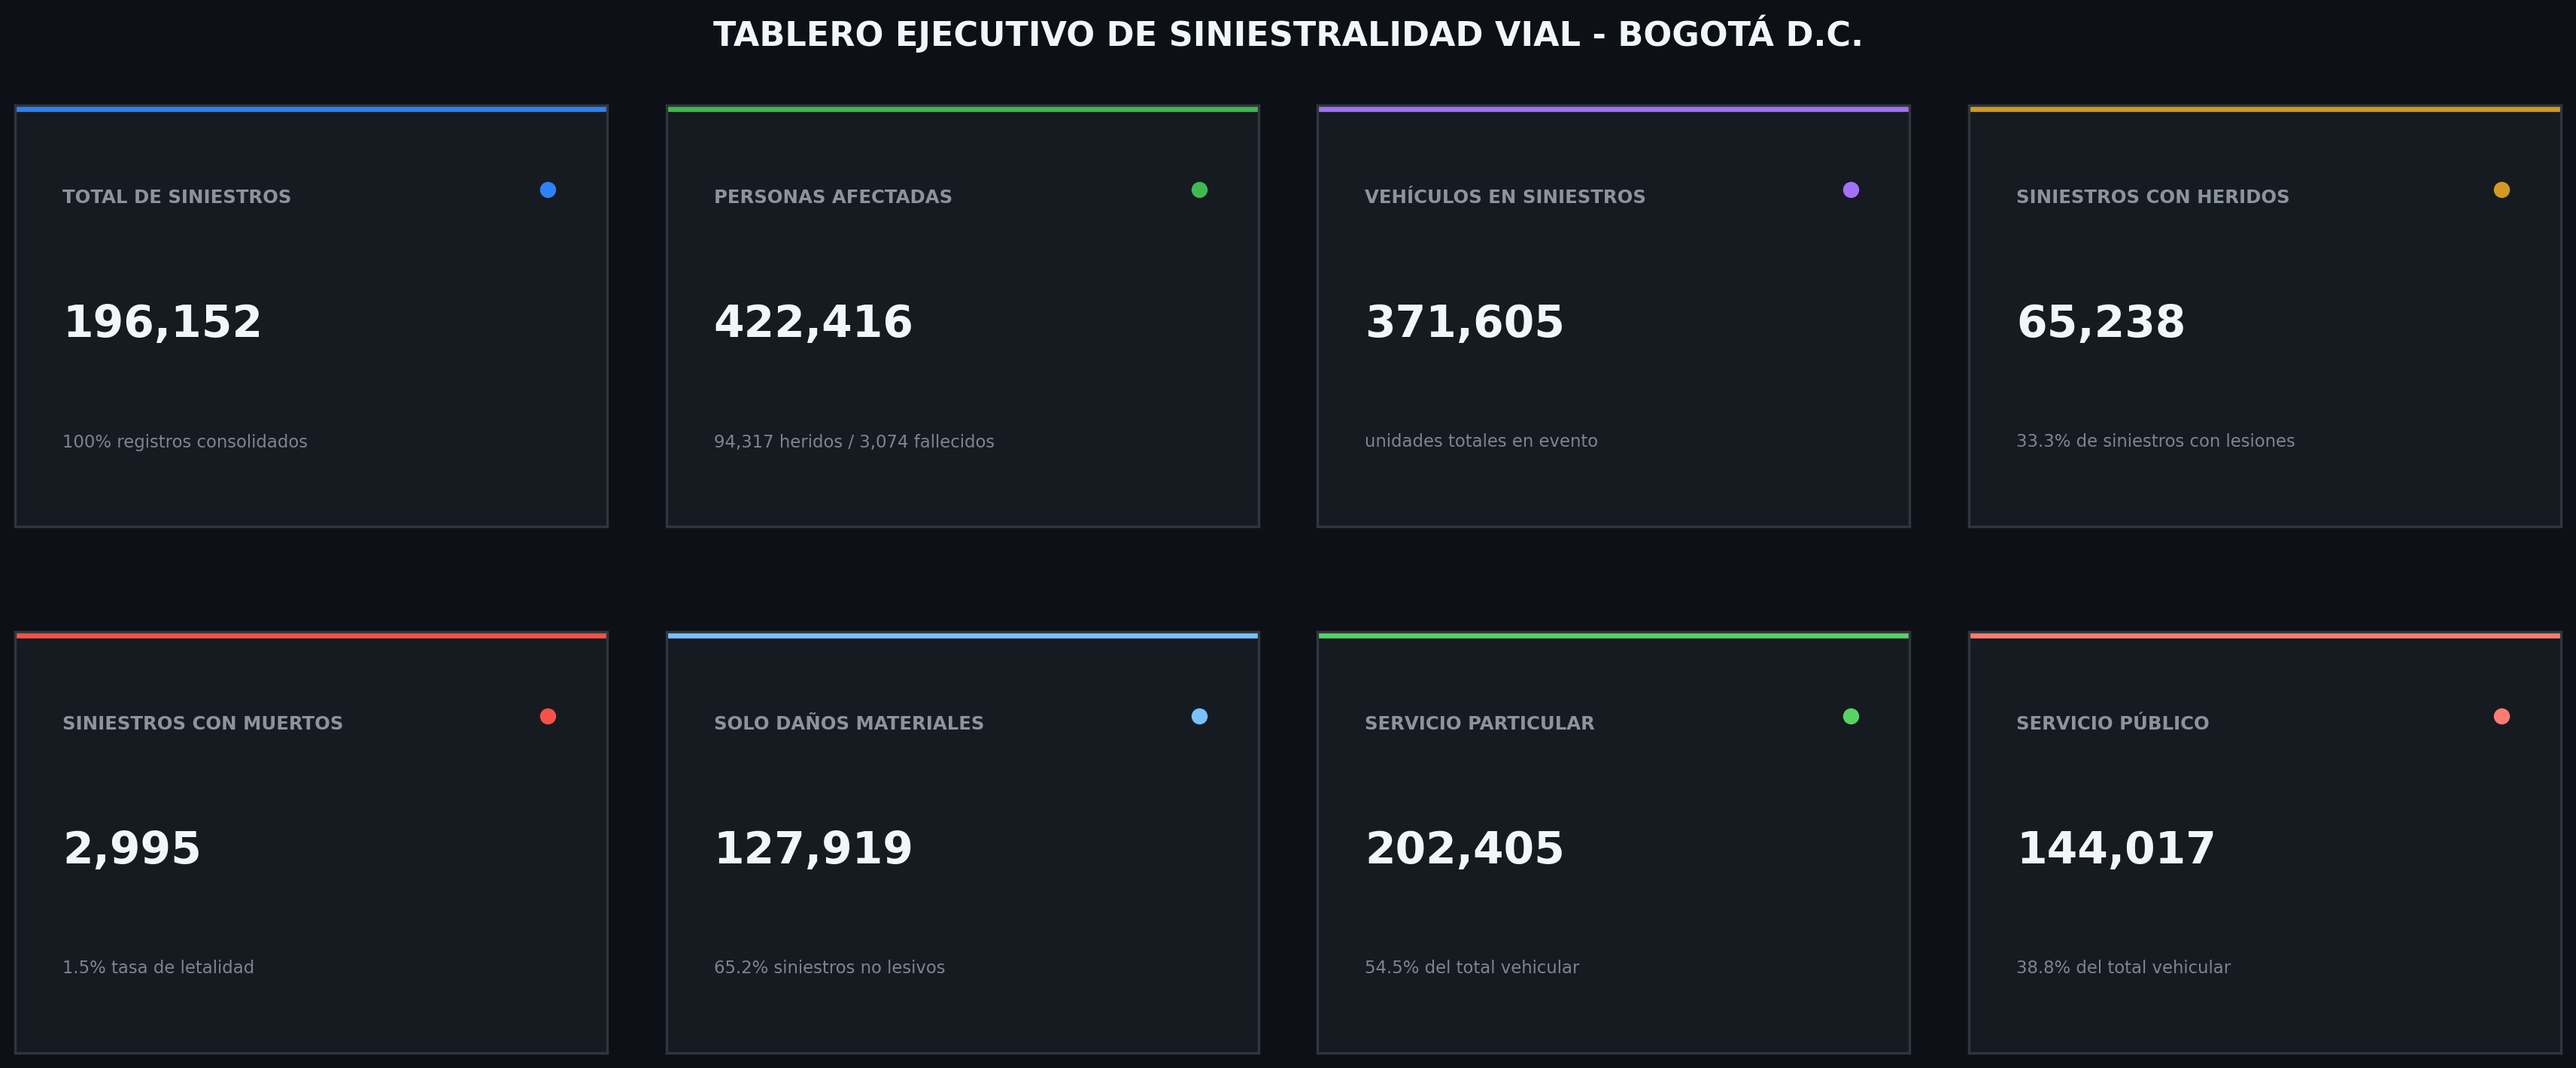
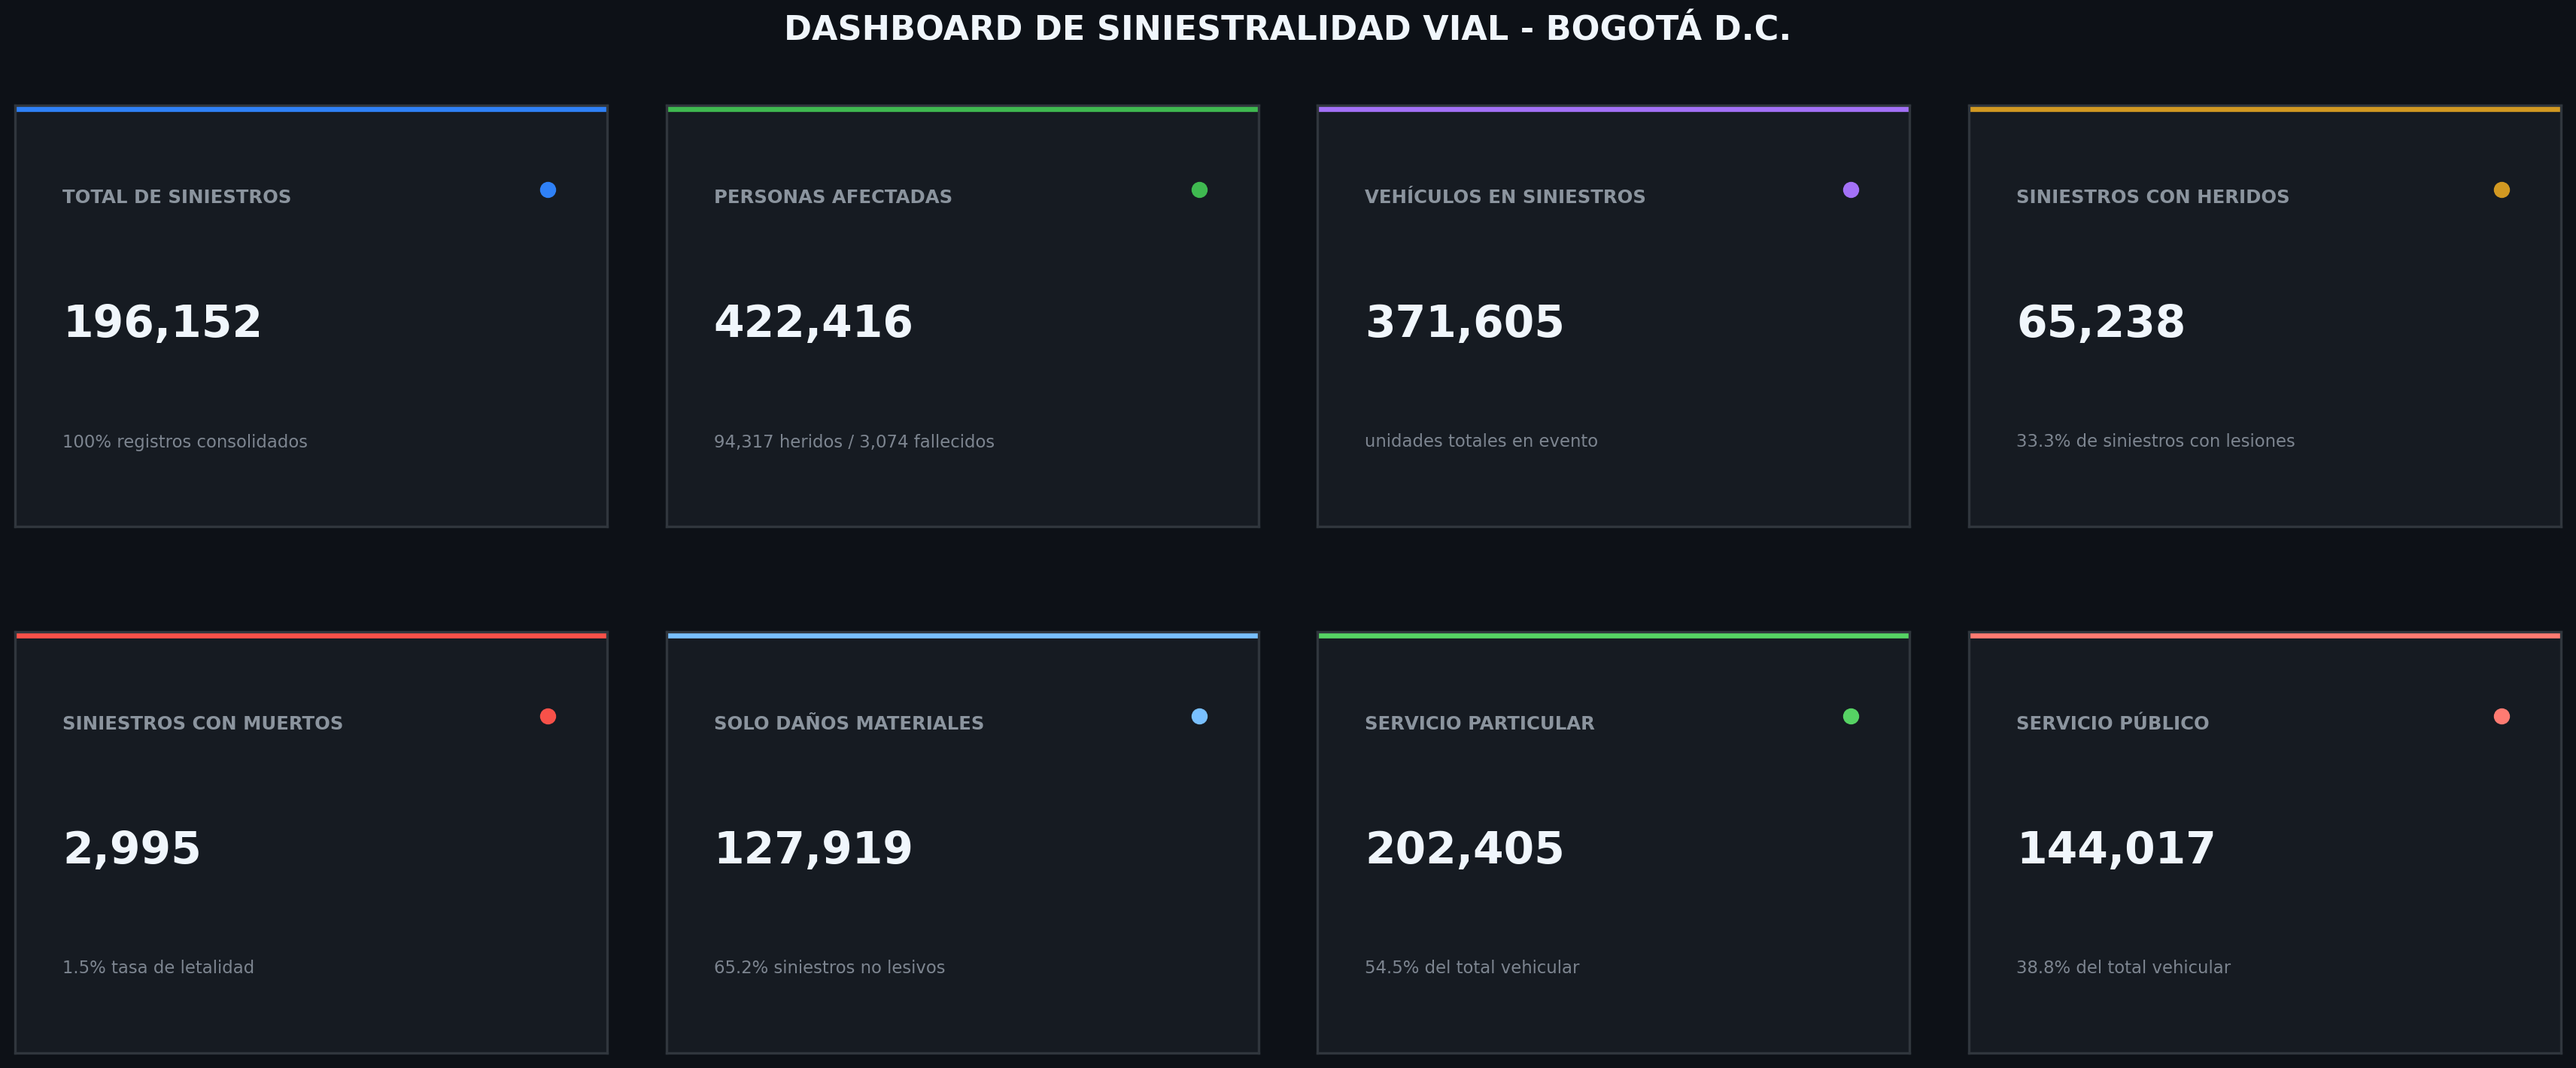
distribucion genero

Changed region(s): [[0.2812, 0.0, 0.7188, 0.062]]

diff --git a/src/analysis/analisis_actores.py b/src/analysis/analisis_actores.py
@@ -1,5 +1,3 @@
-""" analisis de actores viales: roles, demografia y vulnerabilidad """
-
 import pandas as pd
 import matplotlib.pyplot as plt
 import seaborn as sns
@@ -11,9 +9,8 @@ from src.graficos import (
     COLOR_VERDE
 )
 
-
+""" procesa datos de victimas """
 def analizar(actores, carpeta):
-    """ procesa datos de victimas y genera graficos didacticos """
     graves = actores[actores["ESTADO"].isin(["HERIDO", "MUERTO"])]
 
     conclusiones = [
@@ -26,17 +23,16 @@ def analizar(actores, carpeta):
 
     return conclusiones
 
-
+""" identifica el rol con mayor numero de personas afectadas """
 def _condicion_mas_afectada(graves):
-    """ identifica el rol con mayor numero de personas afectadas """
+
     por_condicion = graves["CONDICION"].value_counts()
     return (
         f"Entre las personas heridas o fallecidas la condición más frecuente es "
         f"'{por_condicion.index[0].title()}' ({por_condicion.iloc[0]:,} casos), lo que indica el grupo más vulnerable en los siniestros.")
 
-
+""" calcula letalidad sobre victimas afectadas para evitar sesgo de conductores ilesos """
 def _tasa_mortalidad_por_condicion(actores):
-    """ calcula letalidad sobre victimas afectadas para evitar sesgo de conductores ilesos """
     graves = actores[actores["ESTADO"].isin(["HERIDO", "MUERTO"])]
     muertos = graves[graves["ESTADO"] == "MUERTO"]["CONDICION"].value_counts()
     total_victimas = graves["CONDICION"].value_counts()
@@ -44,9 +40,8 @@ def _tasa_mortalidad_por_condicion(actores):
     return (
         f"'{tasa.index[0].title()}' tiene la tasa de letalidad más alta entre víctimas impactadas ({tasa.iloc[0]:.2f}% de sus víctimas fallecen), seguido de '{tasa.index[1].title()}' ({tasa.iloc[1]:.2f}%).")
 
-
+""" genera grafico de actores viales heridos o fallecidos """
 def _graficar_actores_afectados(graves, carpeta):
-    """ genera grafico didactico de actores viales heridos o fallecidos """
     conteo = graves["CONDICION"].value_counts()
     total = conteo.sum()
     top = conteo.index[0]
@@ -81,9 +76,8 @@ def _graficar_actores_afectados(graves, carpeta):
 
     guardar("actores_afectados.png", carpeta)
 
-
+""" genera histograma  """
 def _graficar_distribucion_edad(graves, carpeta):
-    """ genera histograma didactico con mediana y rango critico incluyendo menores """
     graves = graves.copy()
     graves["EDAD"] = pd.to_numeric(graves["EDAD"], errors="coerce")
     edades_validas = graves[(graves["EDAD"] >= 0) & (graves["EDAD"] < 100)]

diff --git a/src/analysis/analisis_temporal.py b/src/analysis/analisis_temporal.py
@@ -1,5 +1,3 @@
-""" analisis temporal: evolucion anual, hora y dia de la semana """
-
 import matplotlib.pyplot as plt
 from src.graficos import (
     guardar,
@@ -22,18 +20,16 @@ DIAS_ES = {
 }
 ORDEN_DIAS = list(DIAS_ES.keys())
 
-
+""" genera conclusiones y graficos de patrones temporales """
 def analizar(siniestros, carpeta):
-    """ genera conclusiones y graficos de patrones temporales """
     conclusiones = []
     conclusiones.append(_evolucion_anual(siniestros, carpeta))
     conclusiones.append(_patron_horario(siniestros, carpeta))
     conclusiones.append(_patron_dia_semana(siniestros, carpeta))
     return conclusiones
 
-
+""" analiza y grafica la serie temporal de siniestros por año """
 def _evolucion_anual(siniestros, carpeta):
-    """ analiza y grafica la serie temporal de siniestros por anio """
     por_anio = siniestros.groupby("ANIO").size()
     fatales = siniestros[siniestros["GRAVEDAD_DESC"] == "Con Muertos"].groupby("ANIO").size()
 
@@ -96,9 +92,8 @@ def _evolucion_anual(siniestros, carpeta):
         + nota_covid
     )
 
-
+""" analiza y grafica los accidentes por franja horaria """
 def _patron_horario(siniestros, carpeta):
-    """ analiza y grafica la distribucion de accidentes por franja horaria """
     por_hora = siniestros["HORA_NUM"].value_counts().sort_index()
     hora_pico = por_hora.idxmax()
     max_casos = por_hora.max()
@@ -138,9 +133,8 @@ def _patron_horario(siniestros, carpeta):
         f"registros históricos. Esto suele coincidir con horas pico de tráfico en la ciudad de Bogotá."
     )
 
-
+""" analiza y grafica los accidentes por dia de la semana """
 def _patron_dia_semana(siniestros, carpeta):
-    """ analiza y grafica el volumen de accidentes por dia de la semana """
     por_dia = siniestros["DIA_SEMANA"].value_counts().reindex(ORDEN_DIAS)
     nombres_es = [DIAS_ES[d] for d in por_dia.index]
     dia_pico = DIAS_ES[por_dia.idxmax()]

diff --git a/src/datos.py b/src/datos.py
@@ -1,16 +1,12 @@
-""" carga y transformacion de datos viales optimizados con parquet """
-
 import os
 import pandas as pd
 
-
+""" excepcion para errores de lectura o formato de datos """
 class ErrorDatosEntrada(Exception):
-    """ excepcion para errores de lectura o formato de datos """
     pass
 
-
+""" lee las 5 tablas del conjunto de datos en formato parquet o excel """
 def cargar_datos(ruta):
-    """ lee las 5 tablas del conjunto de datos en formato parquet o excel """
     if not os.path.exists(ruta):
         raise ErrorDatosEntrada(f"la ruta especificada no existe: '{ruta}'")
 
@@ -61,9 +57,8 @@ def cargar_datos(ruta):
 
     raise ErrorDatosEntrada(f"formato de archivo no soportado: '{ruta}'")
 
-
+""" extrae del diccionario para una hoja y campo """
 def _mapa_codigos(diccionario, hoja, campo):
-    """ extrae del diccionario un dict codigo a descripcion para una hoja y campo """
     sub = diccionario[(diccionario["HOJA"] == hoja) & (diccionario["CAMPO"] == campo)]
     m = {}
     for cod, desc in zip(sub["CODIGO"], sub["DESCRIPCION"]):
@@ -79,9 +74,10 @@ def _mapa_codigos(diccionario, hoja, campo):
             pass
     return m
 
-
-def decodificar(siniestros, vehiculos, hipotesis, diccionario):
     """ traduce columnas codificadas a texto legible y anade columnas temporales """
+
+""" traduce columnas codificadas a texto legible y añade columnas temporales """
+def decodificar(siniestros, vehiculos, hipotesis, diccionario):
     for campo in ["GRAVEDAD", "CLASE", "CHOQUE", "OBJETO_FIJO", "CODIGO_LOCALIDAD", "DISENO_LUGAR"]:
         siniestros[f"{campo}_DESC"] = siniestros[campo].map(_mapa_codigos(diccionario, "SINIESTROS", campo))
 

diff --git a/src/analysis/analisis_localidades.py b/src/analysis/analisis_localidades.py
@@ -1,5 +1,3 @@
-""" analisis geografico: concentracion de siniestros y letalidad por localidad """
-
 import matplotlib.pyplot as plt
 from src.graficos import (
     guardar,
@@ -10,9 +8,8 @@ from src.graficos import (
 )
 from src.config import MIN_ACCIDENTES_PARA_TASA
 
-
+""" procesa analisis de siniestros por localidad y genera graficos didacticos """
 def analizar(siniestros, carpeta):
-    """ procesa analisis de siniestros por localidad y genera graficos didacticos """
     conclusiones = []
 
     por_localidad = siniestros["CODIGO_LOCALIDAD_DESC"].value_counts()
@@ -59,9 +56,8 @@ def analizar(siniestros, carpeta):
 
     return conclusiones
 
-
+""" calcula la localidad con mayor proporcion de fallecidos """
 def _localidad_mas_letal(siniestros, por_localidad):
-    """ calcula la localidad con mayor proporcion de fallecidos """
     con_muestra_suficiente = por_localidad[por_localidad >= MIN_ACCIDENTES_PARA_TASA].index
 
     fatales_por_loc = siniestros[siniestros["GRAVEDAD_DESC"] == "Con Muertos"]["CODIGO_LOCALIDAD_DESC"].value_counts()
@@ -73,5 +69,3 @@ def _localidad_mas_letal(siniestros, por_localidad):
         f"'{tasa.index[0]}' tiene la mayor proporción de accidentes con muertos respecto a su total "
         f"{tasa.iloc[0]:.2f}% de sus accidentes son fatales."
     )
-
-

diff --git a/src/analysis/analisis_vehiculos.py b/src/analysis/analisis_vehiculos.py
@@ -17,7 +17,7 @@ def analizar(vehiculos, carpeta):
 
     fig, ax = plt.subplots(figsize=(11, 6.5))
 
-    """ genera grafico con etiquetas formateadas y espacio despejado """
+    """ genera grafico con etiquetas """
     etiquetas_leyenda = [f"{k}: {v:,} ({v/total_vehiculos*100:.1f}%)" for k, v in top_clase.items()]
 
     wedges, texts, autotexts = ax.pie(
@@ -31,7 +31,7 @@ def analizar(vehiculos, carpeta):
 
     plt.setp(autotexts, size=9, weight="bold", color="white")
 
-    """ cuadro de leyenda lateral para evitar mezclar texto sobre sectores """
+    """ cuadro lateral """
     ax.legend(
         wedges,
         etiquetas_leyenda,
@@ -60,7 +60,6 @@ def analizar(vehiculos, carpeta):
     top1 = top6.index[0]
     top2 = top6.index[1]
     ax.set_title("DISTRIBUCIÓN DE TIPOS DE VEHÍCULO INVOLUCRADOS\n", fontsize=13.5, fontweight="bold", pad=14, color="#24292F", loc="center")
-    fig.text(0.5, 0.94, f"'{top1}' y '{top2}' concentran la gran mayoría de incidentes en la ciudad", fontsize=10, color="#57606A", ha="center")
     ax.axis("equal")
 
     guardar("top_vehiculos.png", carpeta)

diff --git a/src/analysis/analisis_causas.py b/src/analysis/analisis_causas.py
@@ -1,5 +1,3 @@
-""" analisis de causas frecuentes de siniestros viales """
-
 import matplotlib.pyplot as plt
 from src.graficos import (
     guardar,
@@ -8,9 +6,8 @@ from src.graficos import (
     COLOR_ROJO
 )
 
-
+""" genera visualizacion de las causas de accidentes """
 def analizar(hipotesis, carpeta):
-    """ genera visualizacion didactica del top de causas de accidentes """
     top_causas = hipotesis["CAUSA_DESC"].value_counts().head(10)
     total_hipotesis = len(hipotesis)
 

diff --git a/src/graficos.py b/src/graficos.py
@@ -226,7 +226,7 @@ def generar_tarjetas(metricas, carpeta):
 
     """ titulo superior del tablero """
     fig.suptitle(
-        "TABLERO EJECUTIVO DE SINIESTRALIDAD VIAL - BOGOTÁ D.C.",
+        "DASHBOARD DE SINIESTRALIDAD VIAL - BOGOTÁ D.C.",
         fontsize=16,
         fontweight="bold",
         color=COLOR_TEXTO,
